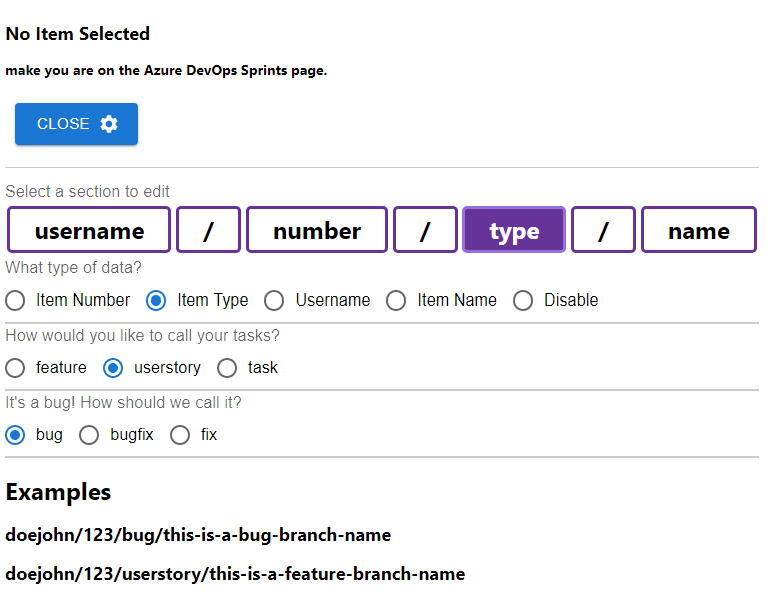
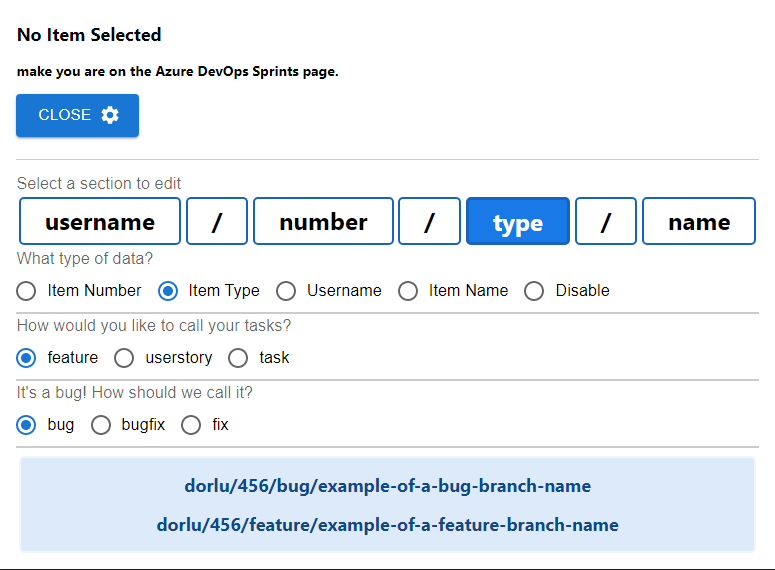
:art: restructure code and a bit more styling

Changed region(s): [[0.0, 0.0298, 1.0, 1.0]]

diff --git a/src/components/popup/popup.jsx b/src/components/popup/popup.jsx
@@ -1,0 +1,109 @@
+/*global chrome*/
+import React, { useState, useEffect } from 'react';
+import { createRoot } from "react-dom/client";
+import { useChromeStorageSync } from 'use-chrome-storage';
+import { preview } from '../../configuration/configurationHandler';
+import Button from '@mui/material/Button';
+import SettingsIcon from '@mui/icons-material/Settings';
+import ContentCopyIcon from '@mui/icons-material/ContentCopy';
+import Configuration from '../configuration/configuration.jsx';
+import './popup.css';
+
+function Popup() {
+    const [data, setData] = useState(null)
+    const [isSetupVisible, setIsSetupVisible] = useState(false);
+    const [config, setConfig, isPersistent, error] = useChromeStorageSync('configuration', {
+        usernameActual: 'user',
+        username: 'personal',
+        type: {
+            regular: 'feature',
+            bug: 'fix',
+        },
+        number: 'work-item',
+        order: {
+            first: 'username',
+            second: 'number',
+            third: 'type',
+            fourth: 'name',
+        },
+        nameSource: 'task',
+        separators: {
+            first: '/',
+            second: '/',
+            third: '/',
+            other: '-',
+        },
+    });
+
+    useEffect(() => {
+        chrome.runtime.sendMessage({ type: 'from_popup' }, (response) => {
+            if (response == null || response === undefined) {
+                console.log('No data found');
+                return
+            }
+            let workItem = response.workItem;
+            let task = response.task;
+            setData({
+                workItem: workItem,
+                task: task
+            })
+            console.log(response);
+        });
+    }, [config]);
+
+    const selectedItemPreview = () => <>
+        <h3>Your selected item branch name:</h3>
+        <h2>{preview(config, data)}</h2>
+    </>
+
+    const noItemSelected = () => <>
+        <h2>No Item Selected</h2>
+        <h3> make you are on the Azure DevOps Sprints page.</h3>
+    </>
+
+    const itemPreview = () => <div style={{ flex: 1 }}>
+        {data && data.workItem
+            ? selectedItemPreview()
+            : noItemSelected()}
+    </div>
+
+    const buttonsSection = () => <div className='buttons-section'>
+        <Button
+            className='buttonWithMargin'
+            variant={'contained'}
+            onClick={() => {
+                setIsSetupVisible((prev) => !prev);
+            }}
+            endIcon={<SettingsIcon />}
+            size="large"
+        >
+            {isSetupVisible ? 'Close' : 'Settings'}
+        </Button>
+        {data && data.workItem && <Button
+            className='buttonWithMargin'
+            variant={'contained'}
+            onClick={() => {
+                navigator.clipboard.writeText(preview(config, data));
+            }}
+            endIcon={<ContentCopyIcon />}
+            size="large"
+        >
+            Copy
+        </Button>}
+    </div>
+
+    return (
+        <div className='appWrapper'>
+            {itemPreview()}
+            {buttonsSection()}
+            {isSetupVisible && <Configuration config={config} setConfig={setConfig} />}
+        </div >
+    );
+}
+
+const root = createRoot(document.getElementById('react-target'));
+root.render(
+    <React.StrictMode>
+        <Popup />
+    </React.StrictMode>
+);

diff --git a/src/components/configuration/configuration.jsx b/src/components/configuration/configuration.jsx
@@ -1,5 +1,5 @@
 import React, { useEffect, useState } from 'react';
-import './css/configuration.css';
+import './configuration.css';
 import Radio from '@mui/material/Radio';
 import RadioGroup from '@mui/material/RadioGroup';
 import TextField from '@mui/material/TextField';
@@ -8,9 +8,8 @@ import FormLabel from '@mui/material/FormLabel';
 import InfoIcon from '@mui/icons-material/Info';
 import IconButton from '@mui/material/IconButton';
 import Tooltip from '@mui/material/Tooltip';
-
-import { previewExample } from './utils/configurationHandler';
-import { configurationOptions } from './config/options';
+import { previewExample } from '../../configuration/configurationHandler';
+import { configurationOptions } from '../../configuration/options';
 
 export default function Configuration({ config, setConfig }) {
     const [previewBug, setPreviewBug] = useState('');
@@ -187,6 +186,7 @@ export default function Configuration({ config, setConfig }) {
                 )}
             </div>
         ));
+
     const SectionOptions = () =>
         <div>
             {selectedSegment &&
@@ -225,9 +225,10 @@ export default function Configuration({ config, setConfig }) {
             <div className="configuration-header"> Select a section to edit</div>
             {ConfigurationSections()}
             {SectionOptions()}
-            <h1>Examples</h1>
-            <h2>{previewBug}</h2>
-            <h2>{previewFeature}</h2>
+            <div className='preview'>
+                <h2>{previewBug}</h2>
+                <h2>{previewFeature}</h2>
+            </div>
         </div>
     );
 }

diff --git a/webpack.base.js b/webpack.base.js
@@ -4,9 +4,9 @@ const CopyPlugin = require('copy-webpack-plugin');
 
 module.exports = {
     entry: {
-        popup: './src/popup.jsx',
-        // background: "./src/background.js",
-        // content: "./src/content.js",
+        popup: './src/components/popup/popup.jsx',
+        background: "./src/background/background.js",
+        content: "./src/content/content.js",
     },
     output: {
         path: path.resolve(__dirname, 'dist'),
@@ -33,7 +33,7 @@ module.exports = {
     },
     plugins: [
         new HtmlWebpackPlugin({
-            template: './src/popup.html',
+            template: './src/components/popup/popup.html',
             filename: 'popup.html',
         }),
         new CopyPlugin({

diff --git a/src/components/configuration/configuration.css b/src/components/configuration/configuration.css
@@ -28,10 +28,10 @@
     padding-left: 1em;
     margin: 0.1em;
     border-radius: 5px;
-    border: 3px solid rebeccapurple;
+    border: 2px solid #1565c0;
     text-align: center;
     font-weight: bold;
-    font-size: 1.2em;
+    font-size: 1.1em;
     font-size: x-large;
     vertical-align: center;
     user-select: none;
@@ -46,7 +46,16 @@
 }
 
 .selected {
-    background-color: rebeccapurple;
+    background-color: #1979e6;
     color: white;
-    border: 3px solid mediumpurple;
+    border: 3px solid #1565c0;
+}
+
+.preview {
+    margin: 0.7em 0.2em;
+    border: 2px solid rgb(240, 246, 255);
+    border-radius: 5px;
+    background-color: #ddeaf9;
+    text-align: center;
+    color: #0d498b;
 }

diff --git a/src/configuration/configurationHandler.js b/src/configuration/configurationHandler.js
@@ -39,7 +39,7 @@ const handle = (config, action, item) => {
 
 export const previewExample = (config, isBug) => {
     var task = {
-        name: `this is a ${isBug ? 'bug' : 'feature'} branch name`,
+        name: `example of a ${isBug ? 'bug' : 'feature'} branch name`,
         type: isBug ? 'bug' : 'feature',
         assignee: 'John Doe',
         number: 123,
@@ -54,6 +54,9 @@ export const previewExample = (config, isBug) => {
 };
 
 export const preview = (config, item) => {
+    if (item == null || item == undefined) {
+        return '';
+    }
     var branchName = `${handle(config, config.order.first, item)}${config.separators.first}${handle(
         config,
         config.order.second,

diff --git a/src/components/popup/popup.css b/src/components/popup/popup.css
@@ -1,0 +1,16 @@
+.appWrapper {
+    display: flex;
+    flex-direction: column;
+    margin: 0.7em;
+}
+
+.buttons-section {
+    flex: 1;
+    display: flex;
+    justify-content: flex-start;
+    margin-bottom: 10px
+}
+
+.buttonWithMargin {
+    margin-right: 10px !important;
+}

diff --git a/readme.md b/readme.md
@@ -4,6 +4,7 @@
 
 This is a simple extension that allows you to generate a branch name based on an Azure DevOps Board item.  
 Tech stack:
+
 - React 18
 - WebPack 5
 
